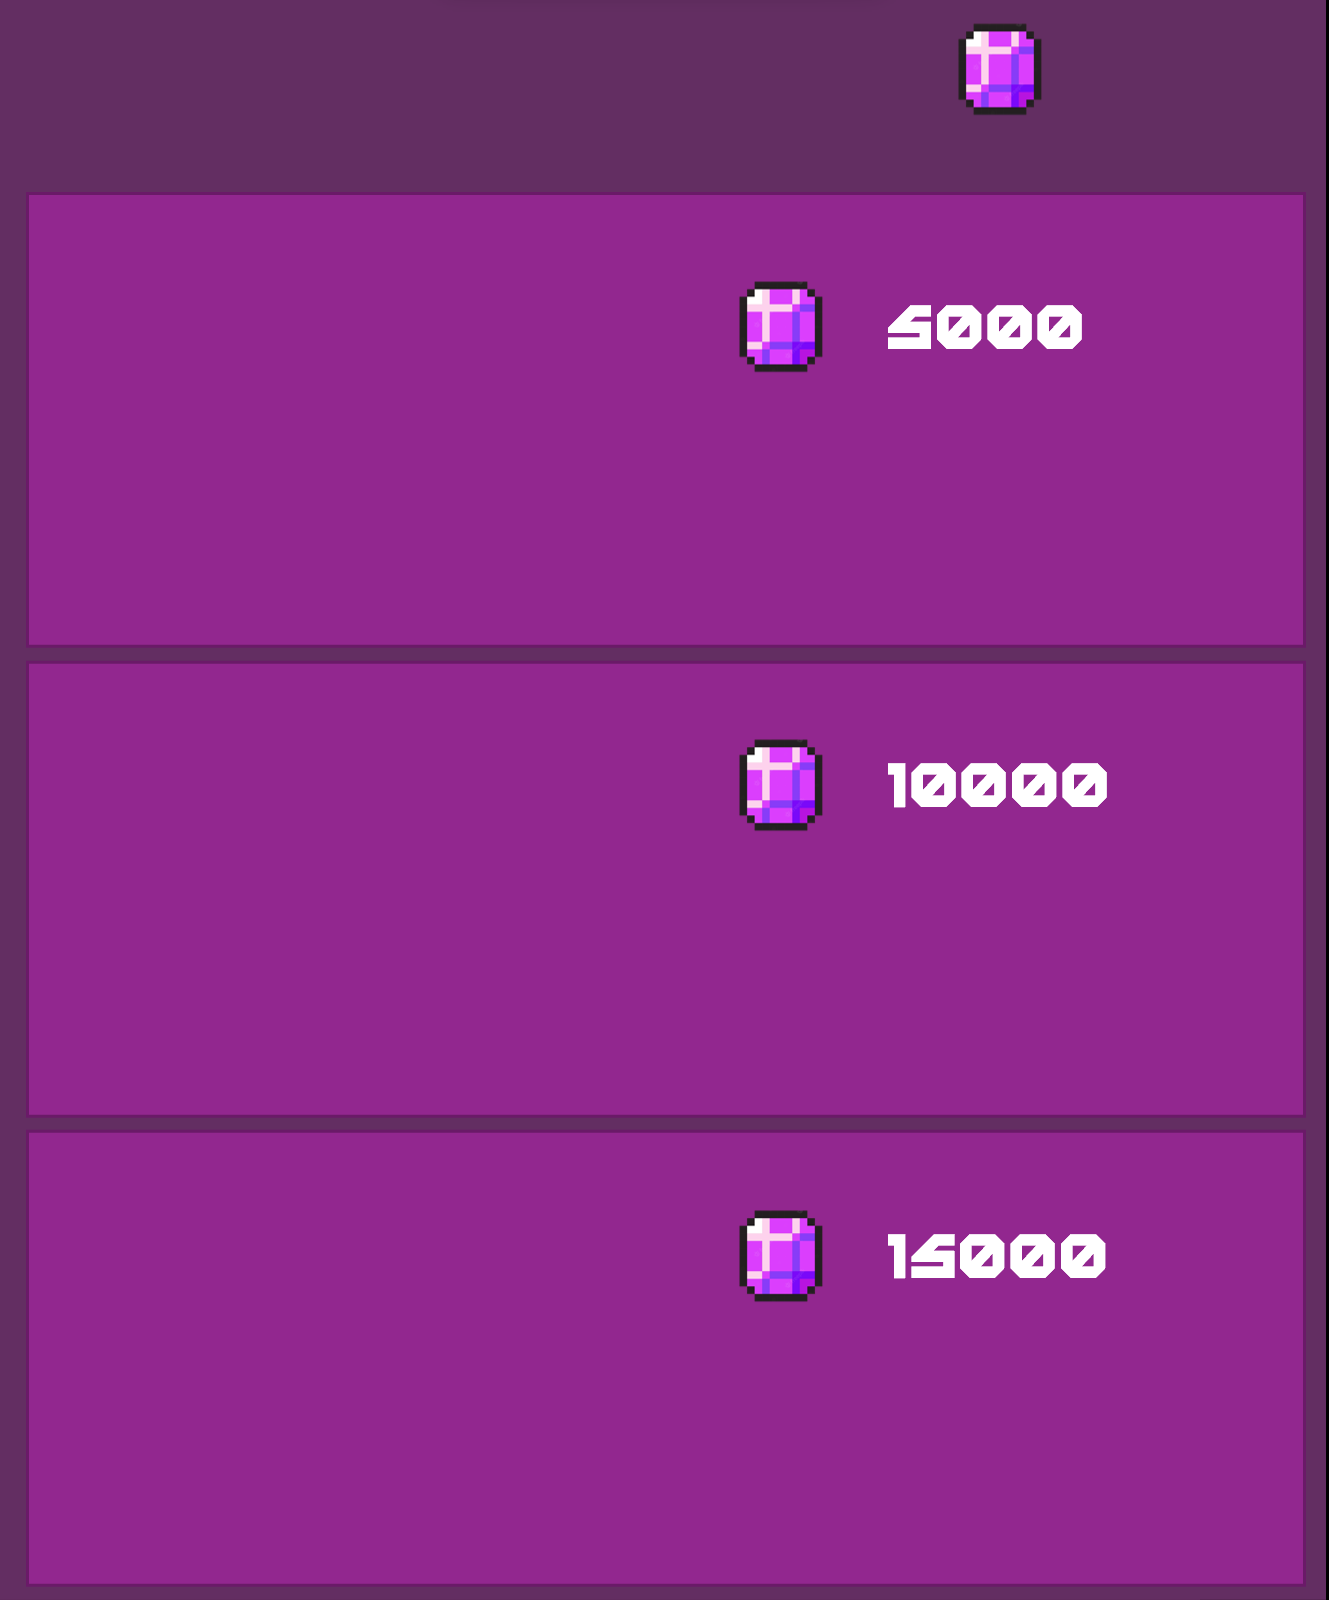
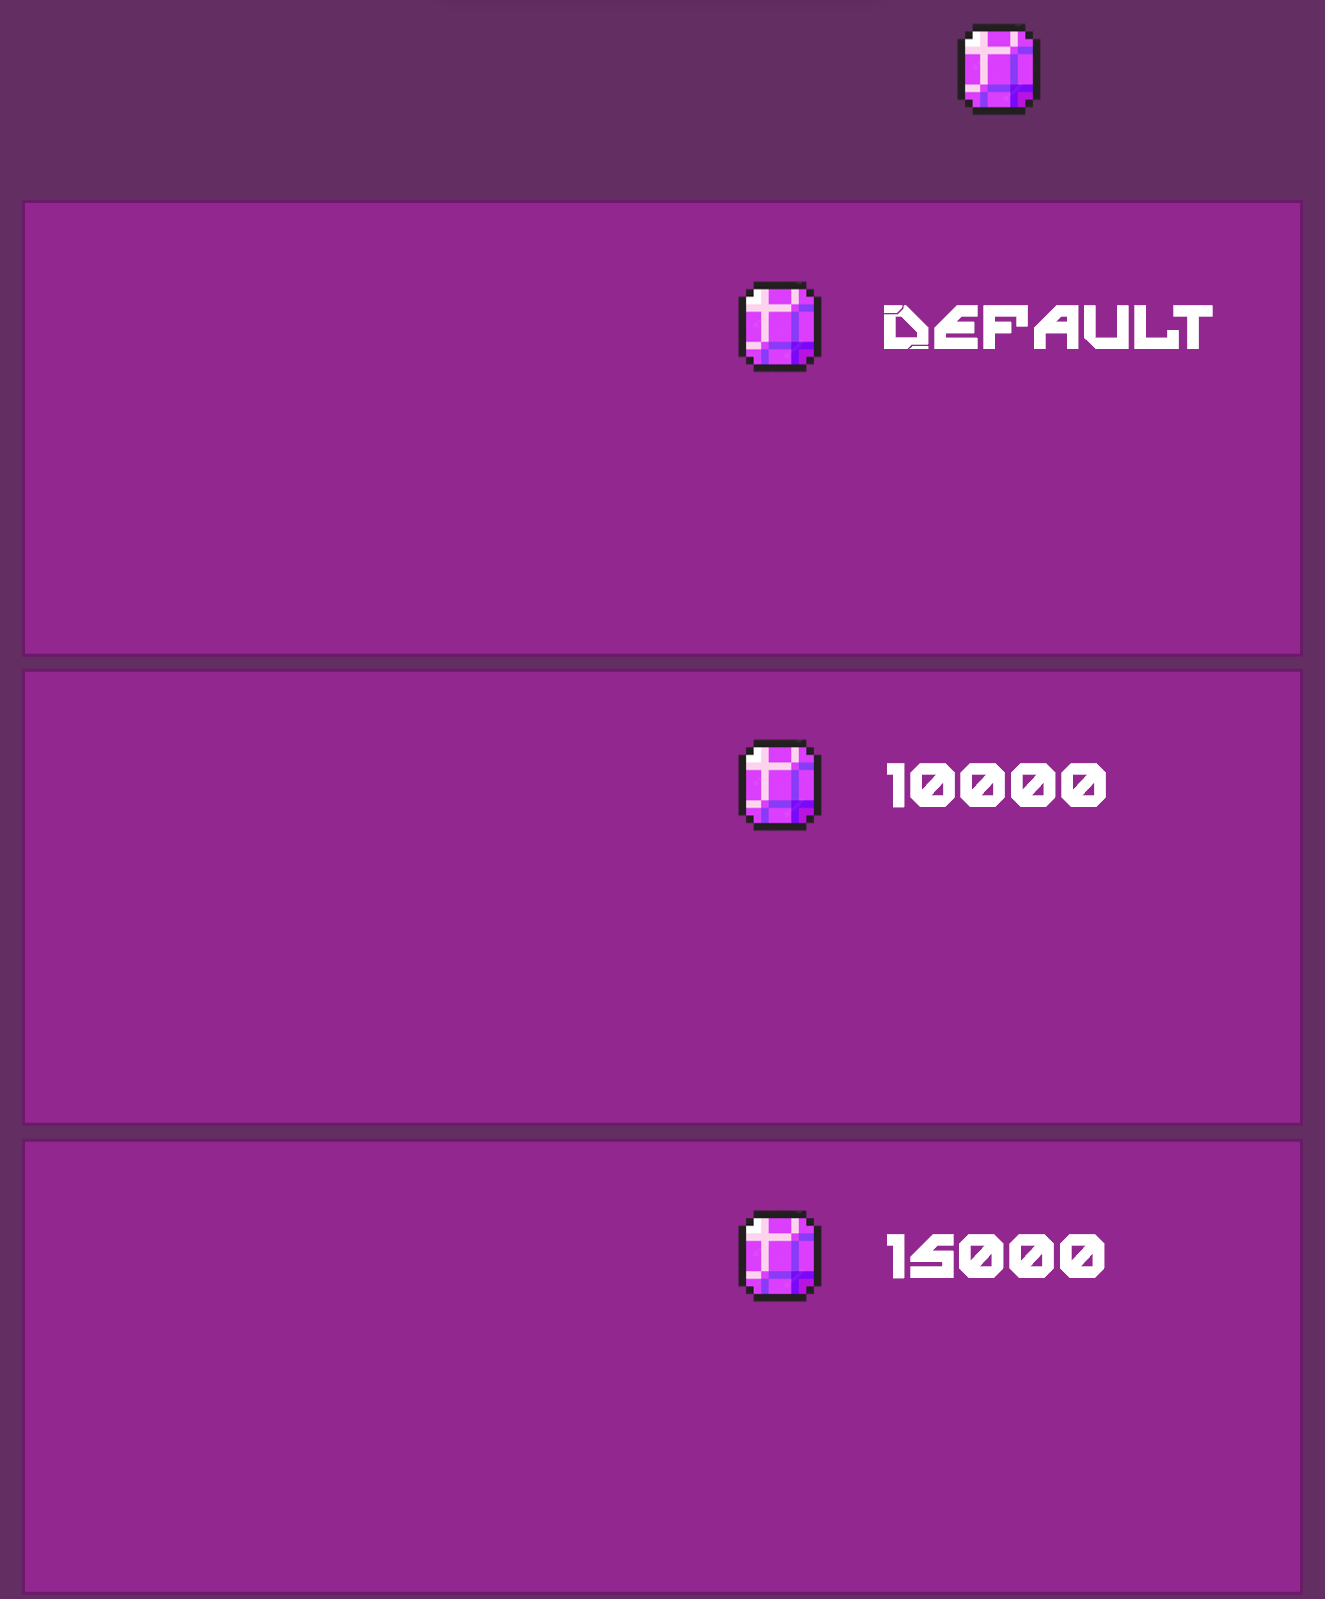
botoes skins + diamante

diff --git a/telaskins.py b/telaskins.py
@@ -1,10 +1,11 @@
 # Tela das Skins de berinjela
 
-from config import largura, altura, fps, quit, jogando, Roxo, skins
+from config import largura, altura, fps, quit, jogando, Roxo, skins, Fontes
 from assets import TelaI, TelaJ, TelaS, Selecionado, Selecionar, Comprar, Voltar, load_assets
 from os import path
 from classes import Button 
 import pygame
+import json
 
 
 tela = pygame.display.set_mode((largura, altura))
@@ -12,7 +13,8 @@ pygame.display.set_caption('Berijela Clicker')
 
 assets = load_assets()[0]
 btns = load_assets()[1]
-
+pygame.font.init()
+font = pygame.font.Font((path.join(Fontes, 'Valorax-lg25V.otf')),22)
 
 
 # ----- Inicia estruturas de dados
@@ -20,20 +22,24 @@ def telaskins(screen):
     # Variável para o ajuste de velocidade
     clock = pygame.time.Clock()
 
-    Comprado1 = False
+    with open('save.json', 'r') as arquivo_json:
+        texto = arquivo_json.read()
+    goods = json.loads(texto)
+    dima = goods['Gemas']
+
     Comprado2 = False
     Comprado3 = False
     Selecionar1 = 0
     Selecionar2 = 0
     Selecionar3 = 0
-    Selecionado1 = 0
+    Selecionado1 = 1
     Selecionado2 = 0
     Selecionado3 = 0
-    Jacomprou1 = False
+    Jacomprou1 = True
     Jacomprou2 = False
     Jacomprou3 = False
 
-    botaoC1 = Button(((largura/2)+35),((altura/3)-40), btns[Comprar])
+    #botaoC1 = Button(((largura/2)+35),((altura/3)-40), btns[Comprar])
     botaoC2 = Button(((largura/2)+35),((altura/3)+160), btns[Comprar])
     botaoC3 = Button(((largura/2)+35),((altura/3)+370), btns[Comprar])
 
@@ -47,13 +53,9 @@ def telaskins(screen):
 
     botaov = Button(10,10,btns[Voltar])
 
-
     # Carrega o fundo da tela inicial
     fundo = assets[TelaS]
     fundo_rect = fundo.get_rect()
-
-    
-    
 
     running = True
     keysdown = {}
@@ -61,24 +63,28 @@ def telaskins(screen):
         # A cada loop, redesenha o fundo e os sprites
         screen.fill(Roxo)
         screen.blit(fundo, fundo_rect)
-        
+
+        textdima = font.render(str(dima), True, (255,255,255))
+        textdimaRect = textdima.get_rect()
+        textdimaRect.center = (475,33)
+        screen.blit(textdima,textdimaRect)
 
         # desenha botoes
     
         v = botaov.aparecer(screen, btns[Voltar])
-        if Comprado1 == False:
-            b1 = botaoC1.aparecer(screen, btns[Comprar])
+
         if Comprado2 == False:
             b2 = botaoC2.aparecer(screen, btns[Comprar])
         if Comprado3 == False:
             b3 = botaoC3.aparecer(screen, btns[Comprar])
 
-        if Selecionar1 == 1:
-            b1 = botaoS1.aparecer(screen, btns[Selecionar])
-            Jacomprou1 = True
+        if Selecionado1 == 0:
+            b1 = botaoS1.aparecer(screen, btns[Selecionar]) 
+        
         if Selecionar2 == 1:
             b2 = botaoS2.aparecer(screen, btns[Selecionar])
             Jacomprou2 = True
+
         if Selecionar3 == 1:
             b3 = botaoS3.aparecer(screen, btns[Selecionar])
             Jacomprou3 = True
@@ -106,10 +112,7 @@ def telaskins(screen):
             if v:
                 state = jogando
                 running = False
-            
-            if b1 and Jacomprou1 == False:
-                Comprado1 = True
-                Selecionar1 = 1
+
             if b2 and Jacomprou2 == False:
                 Comprado2 = True
                 Selecionar2 = 1
@@ -117,20 +120,17 @@ def telaskins(screen):
                 Comprado3 = True
                 Selecionar3 = 1
             if b1 and Jacomprou1 == True:
-                Comprado1 = True
-                Selecionar1 = 1
                 Selecionado1 = 1
                 Selecionado2 = 0
                 Selecionado3 = 0
             if b2 and Jacomprou2 == True:
                 Comprado2 = True
-                Selecionar2 = 1
                 Selecionado1 = 0
                 Selecionado2 = 1
                 Selecionado3 = 0
             if b3 and Jacomprou3 == True:
                 Comprado3 = True
-                Selecionar3 = 1
+                Selecionar1 = 1
                 Selecionado1 = 0
                 Selecionado2 = 0
                 Selecionado3 = 1
@@ -139,6 +139,7 @@ def telaskins(screen):
 
         # Depois de desenhar tudo, inverte o display.
         pygame.display.flip()
+        pygame.display.update()
 
 
     return state

diff --git a/classes.py b/classes.py
@@ -58,12 +58,13 @@ class Berinjela(pygame.sprite.Sprite):
         if self.rect.collidepoint(pos) == False:
             self.image = imagem[2]
         if self.rect.collidepoint(pos):
-            if pygame.mouse.get_pressed()[0] == True and elapsed_ticks > 20:
+            if pygame.mouse.get_pressed()[0] == True and elapsed_ticks > 50:
                 apertou = True
                 self.i += 1
                 if self.i % 2 == 1:
                     self.image = imagem[0]
-                elif self.i % 2 == 0:
+                pygame.time.delay(50)
+                if self.i % 2 == 0:
                     self.image = imagem[1]
                 self.last_update = pygame.time.get_ticks()
         pygame.time.delay(50)
